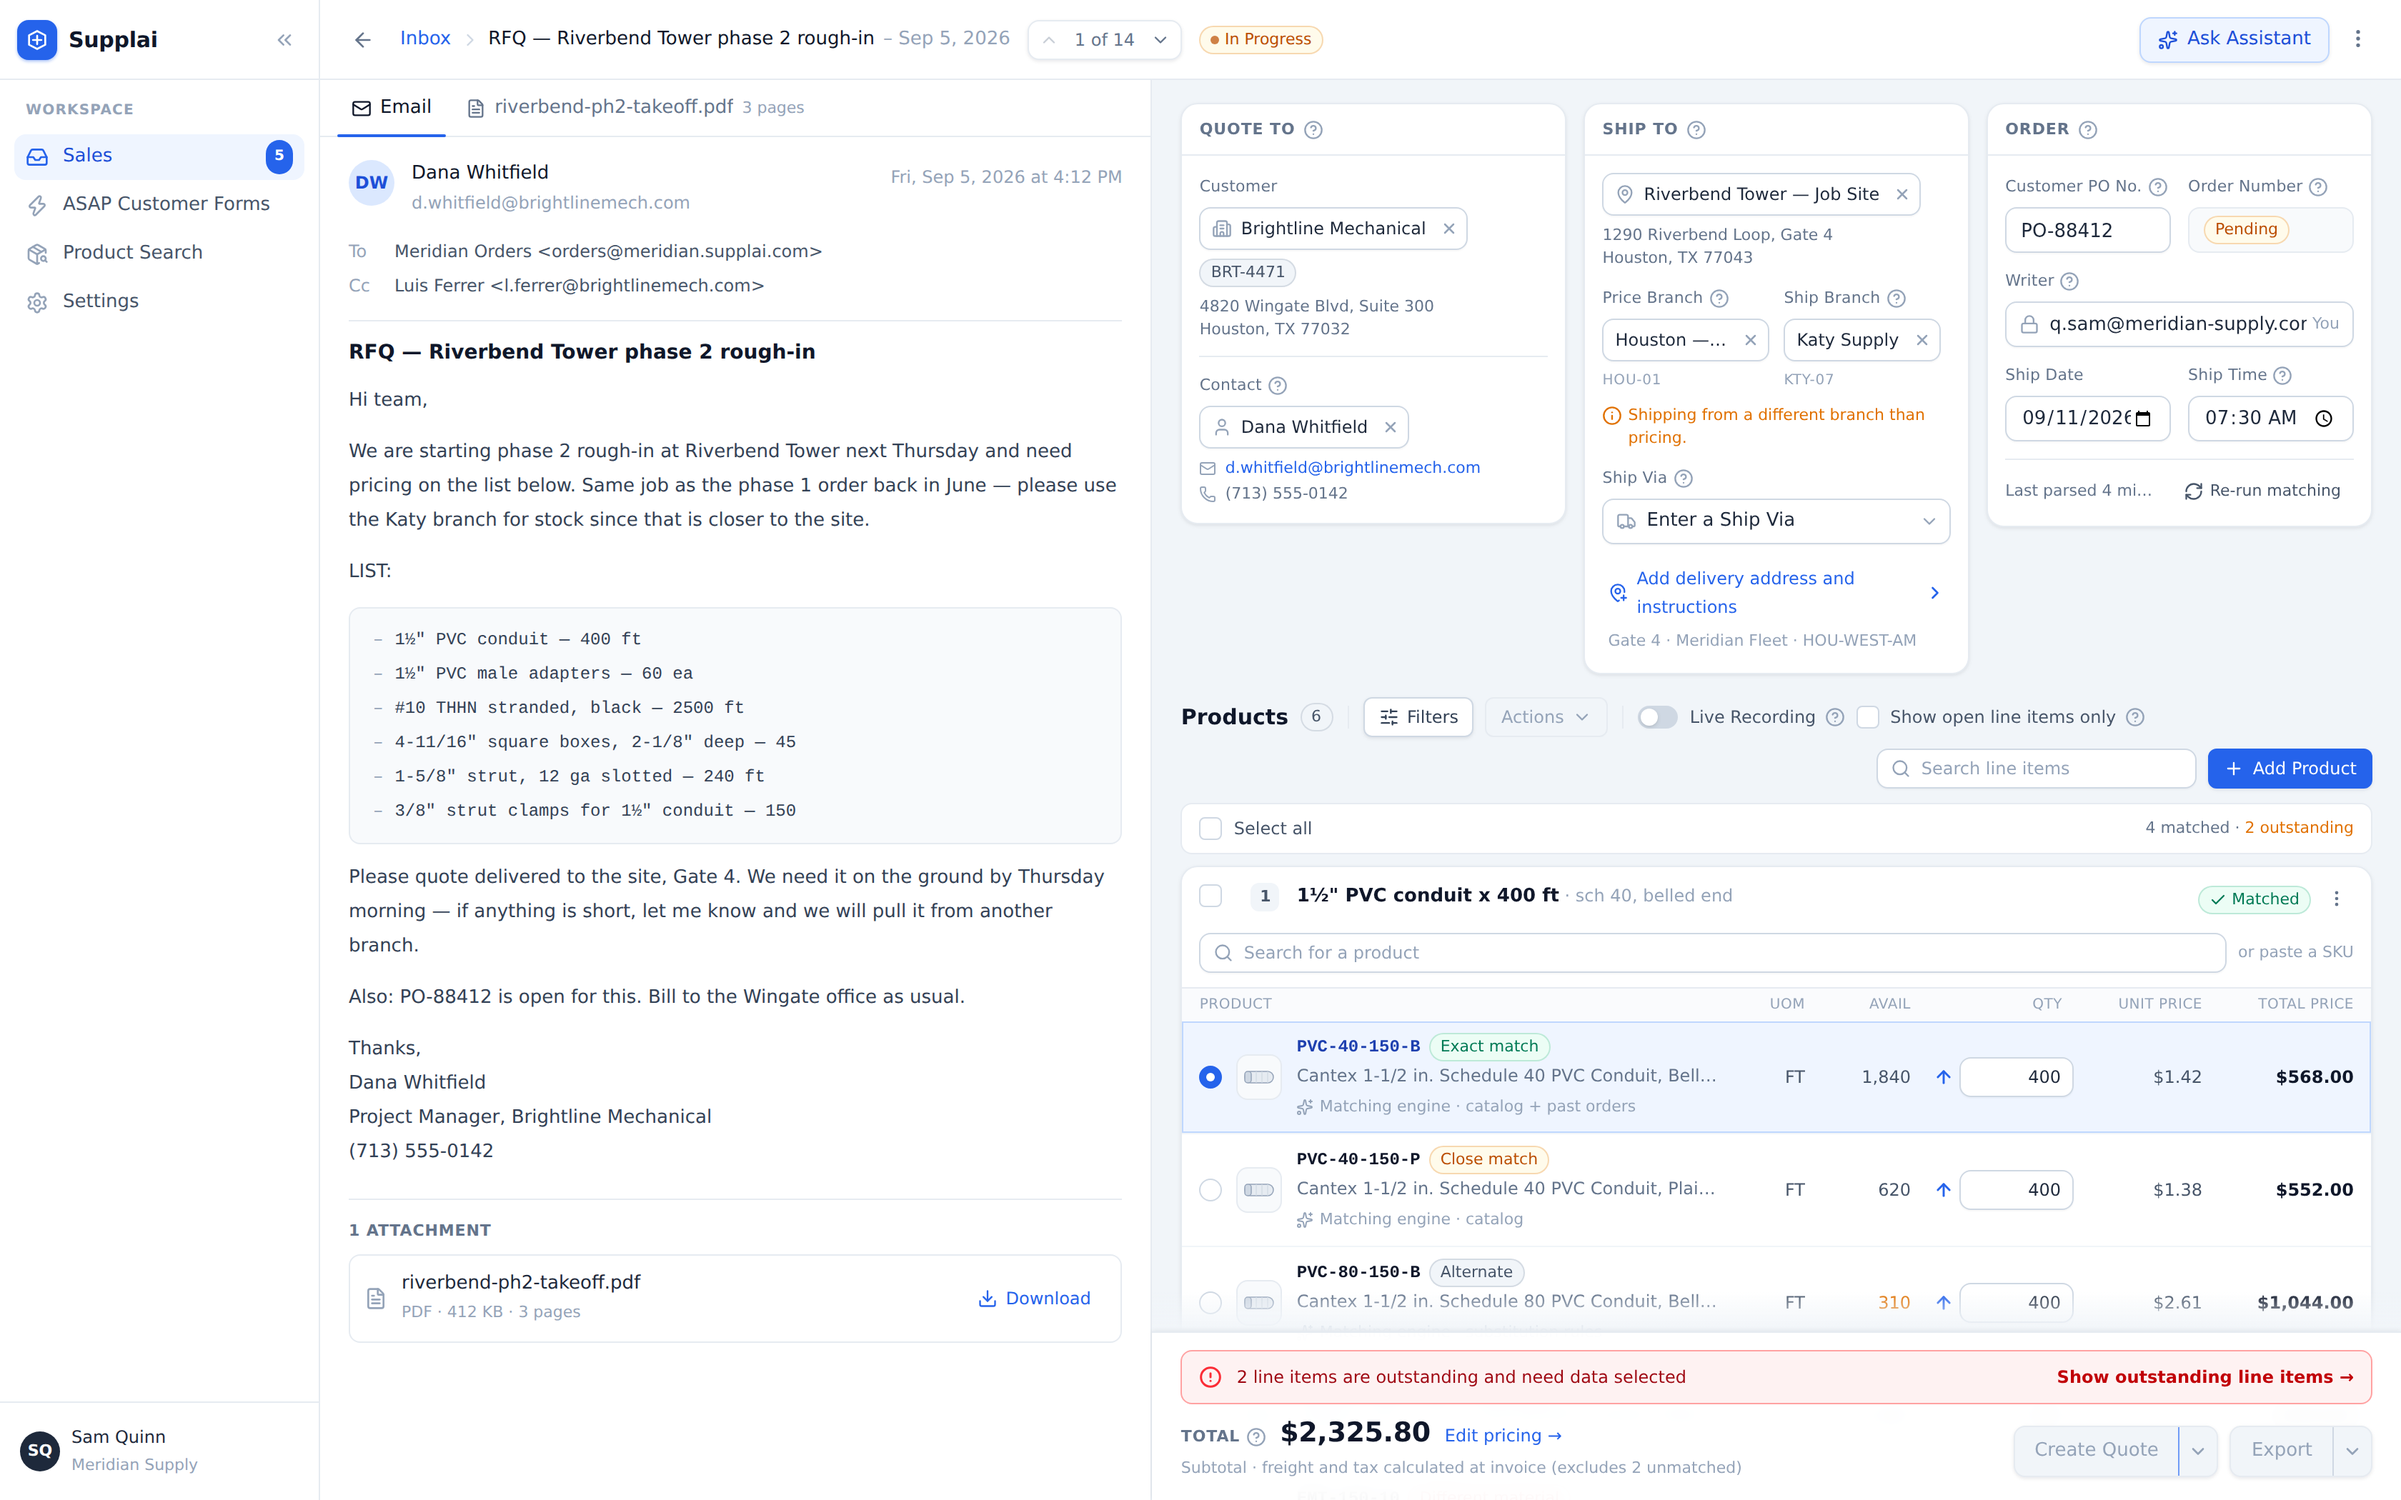
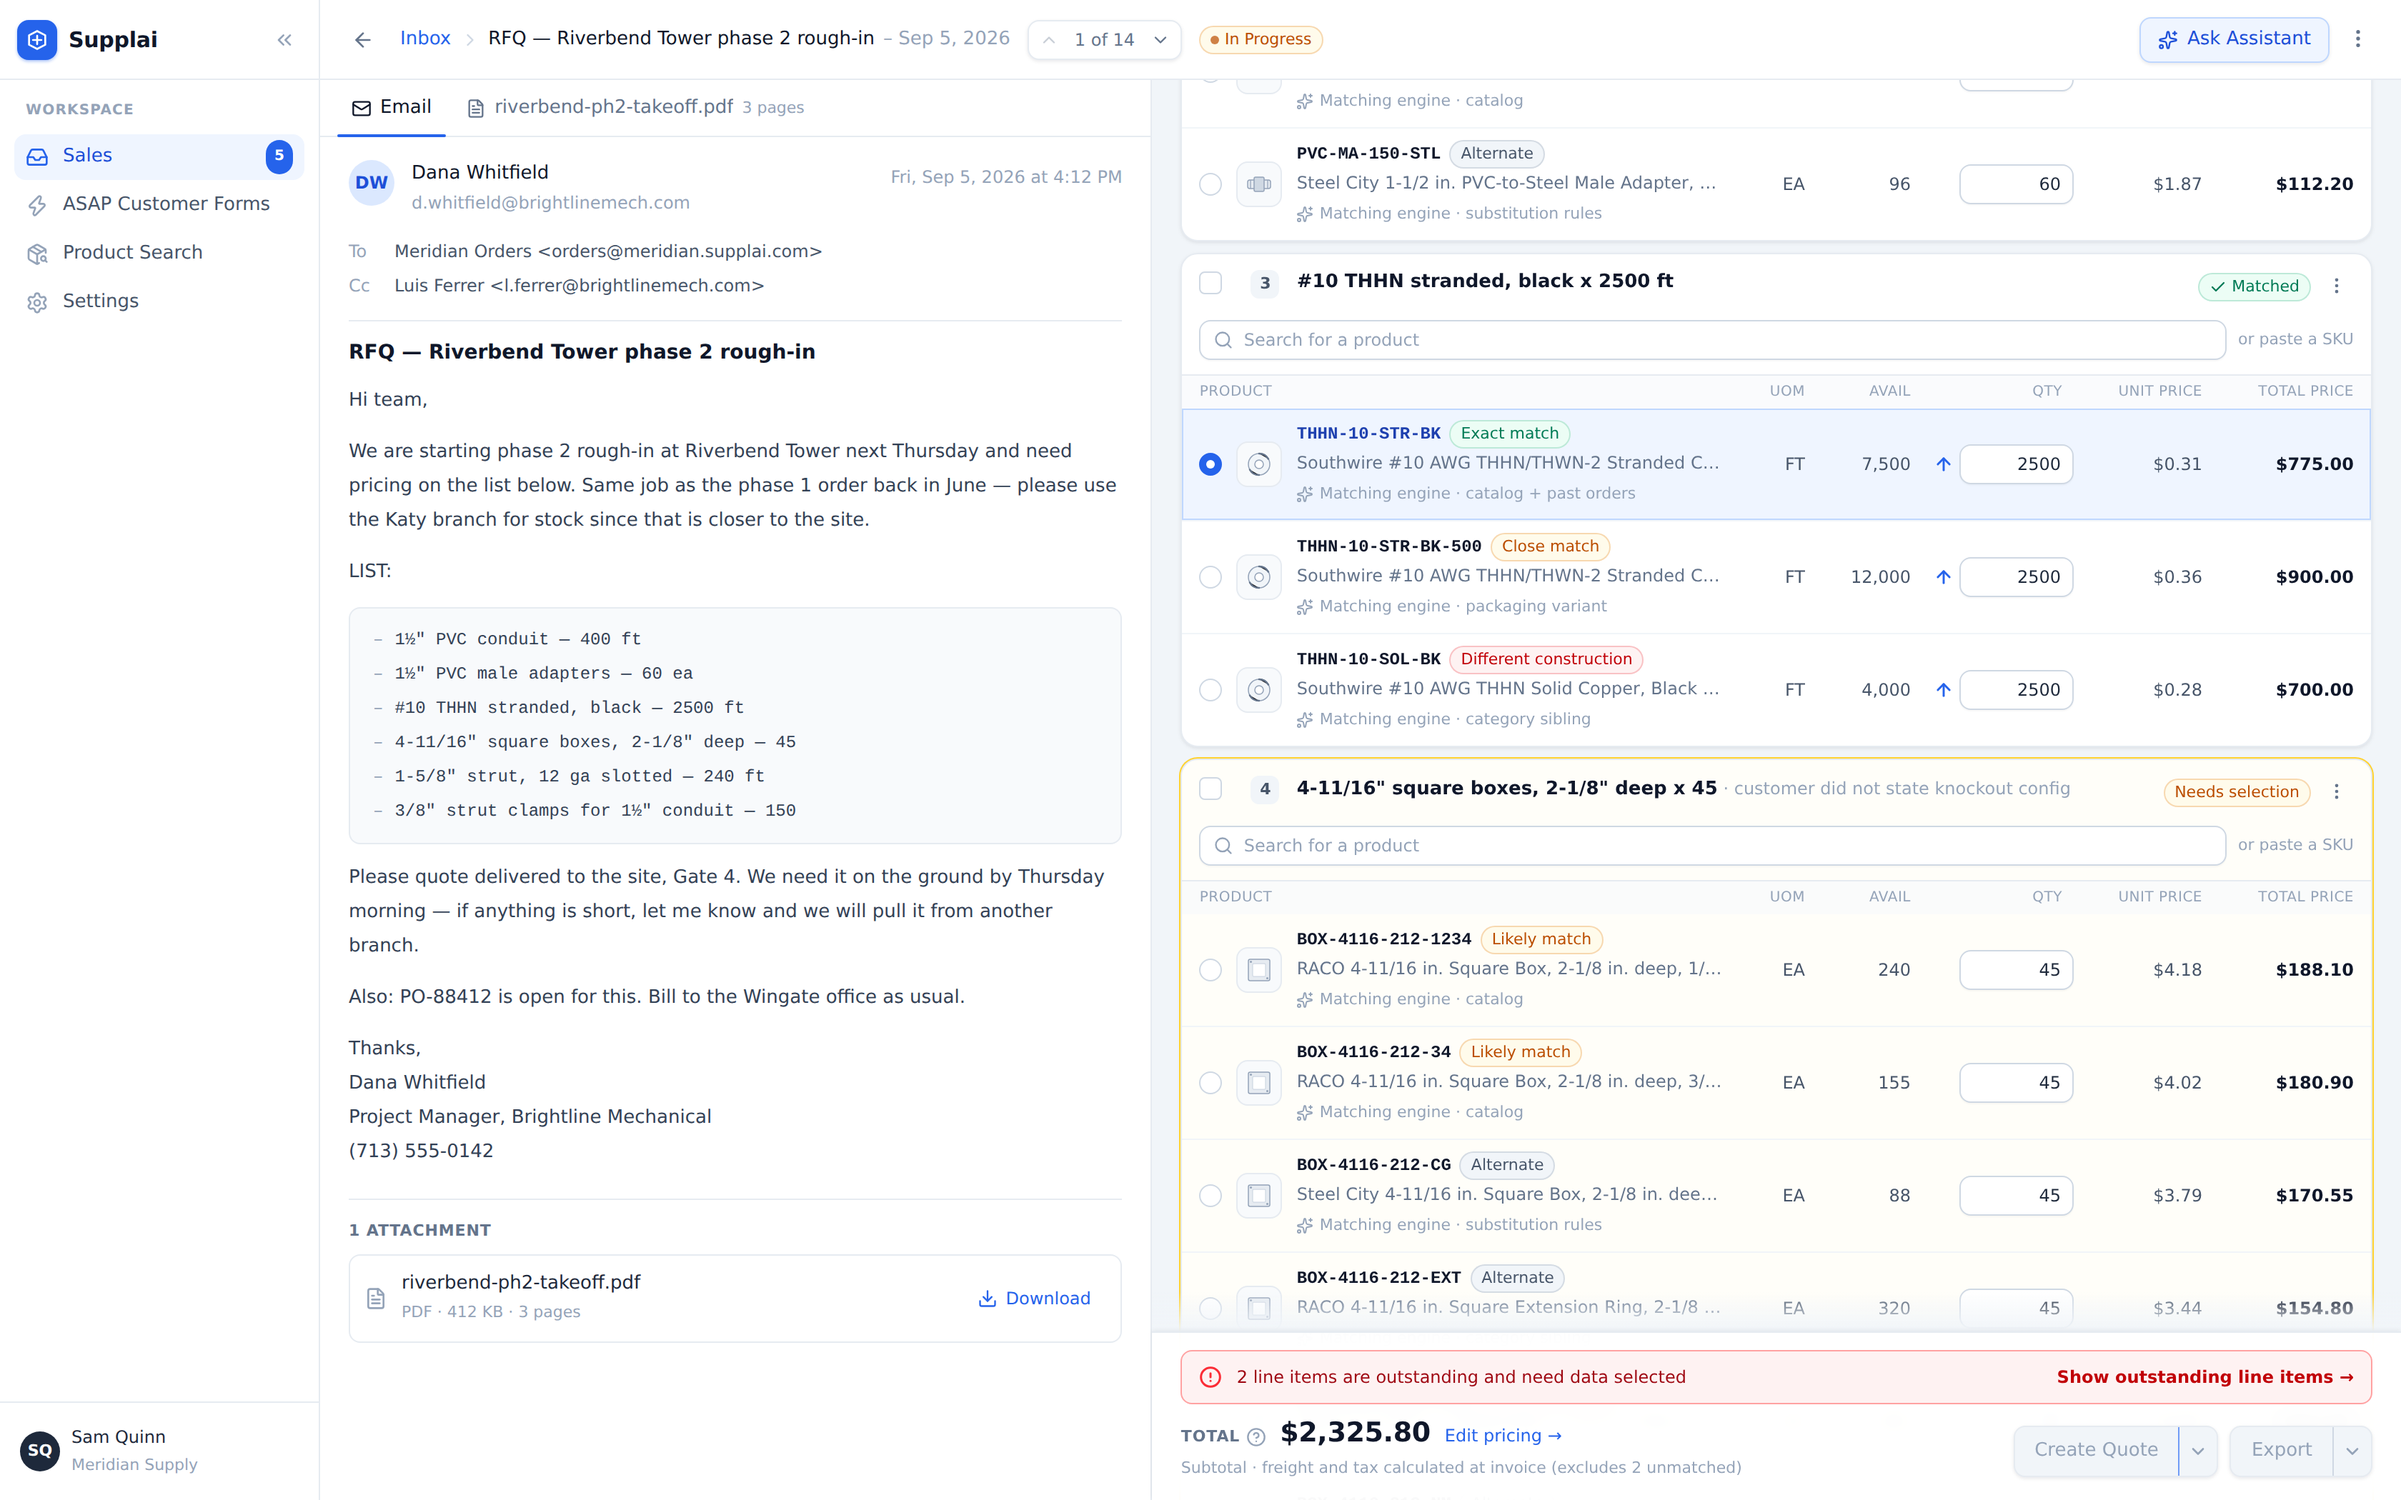
Scroll the show-more shot into view and document the mockup harness
The "Show more" state rendered below the fold, so its screenshot showed
line 1 rather than the expanded line. Scroll the target line item into
view first, matching on the line item's own wording rather than the
email body's near-identical text.

Claude-Session: https://claude.ai/code/session_01ACGtXaGqyuAaEBFuWNCEu1

diff --git a/src/screens/order/SourcePane.jsx b/src/screens/order/SourcePane.jsx
@@ -247,13 +247,15 @@ function DocumentTab({ pages, onDownload }) {
             </h3>
             <div className="mt-2 border-b-[3px] border-double border-ink-800" />
 
-            <dl className="mt-4 grid grid-cols-2 gap-x-8 gap-y-1.5 text-[11px]">
+            {/* Label column is kept just wide enough for "PREPARED BY" — a wider
+                one squeezes the value into a three-line orphan on this paper. */}
+            <dl className="mt-4 grid grid-cols-2 gap-x-6 gap-y-1.5 text-[11px]">
               {page.meta.map(([k, v]) => (
                 <div
                   key={k}
-                  className="flex items-baseline gap-3 border-b border-dotted border-ink-300 pb-1"
+                  className="flex items-baseline gap-2 border-b border-dotted border-ink-300 pb-1"
                 >
-                  <dt className="w-24 shrink-0 font-semibold tracking-[0.06em] whitespace-nowrap text-ink-500 uppercase">
+                  <dt className="w-20 shrink-0 font-semibold tracking-[0.06em] whitespace-nowrap text-ink-500 uppercase">
                     {k}
                   </dt>
                   <dd className="min-w-0 flex-1 break-words text-ink-800">{v}</dd>

diff --git a/README.md b/README.md
@@ -17,13 +17,14 @@ npm install
 npm run dev          # http://127.0.0.1:5173
 ```
 
-Or render every state to PNG:
+Rendered PNGs of every state are checked into [`mockups/`](mockups). To regenerate them:
 
 ```bash
-npm run build
-npx vite preview --port 4173 &
-node scripts/shots.mjs        # writes ./mockups/*.png
+npm run shots        # build → preview → screenshot all 16 states into ./mockups
 ```
+
+The harness fails loudly: any console error, React warning, or failed request on a
+screen marks that shot `✗`. All sixteen currently pass clean.
 
 ## Screens
 
